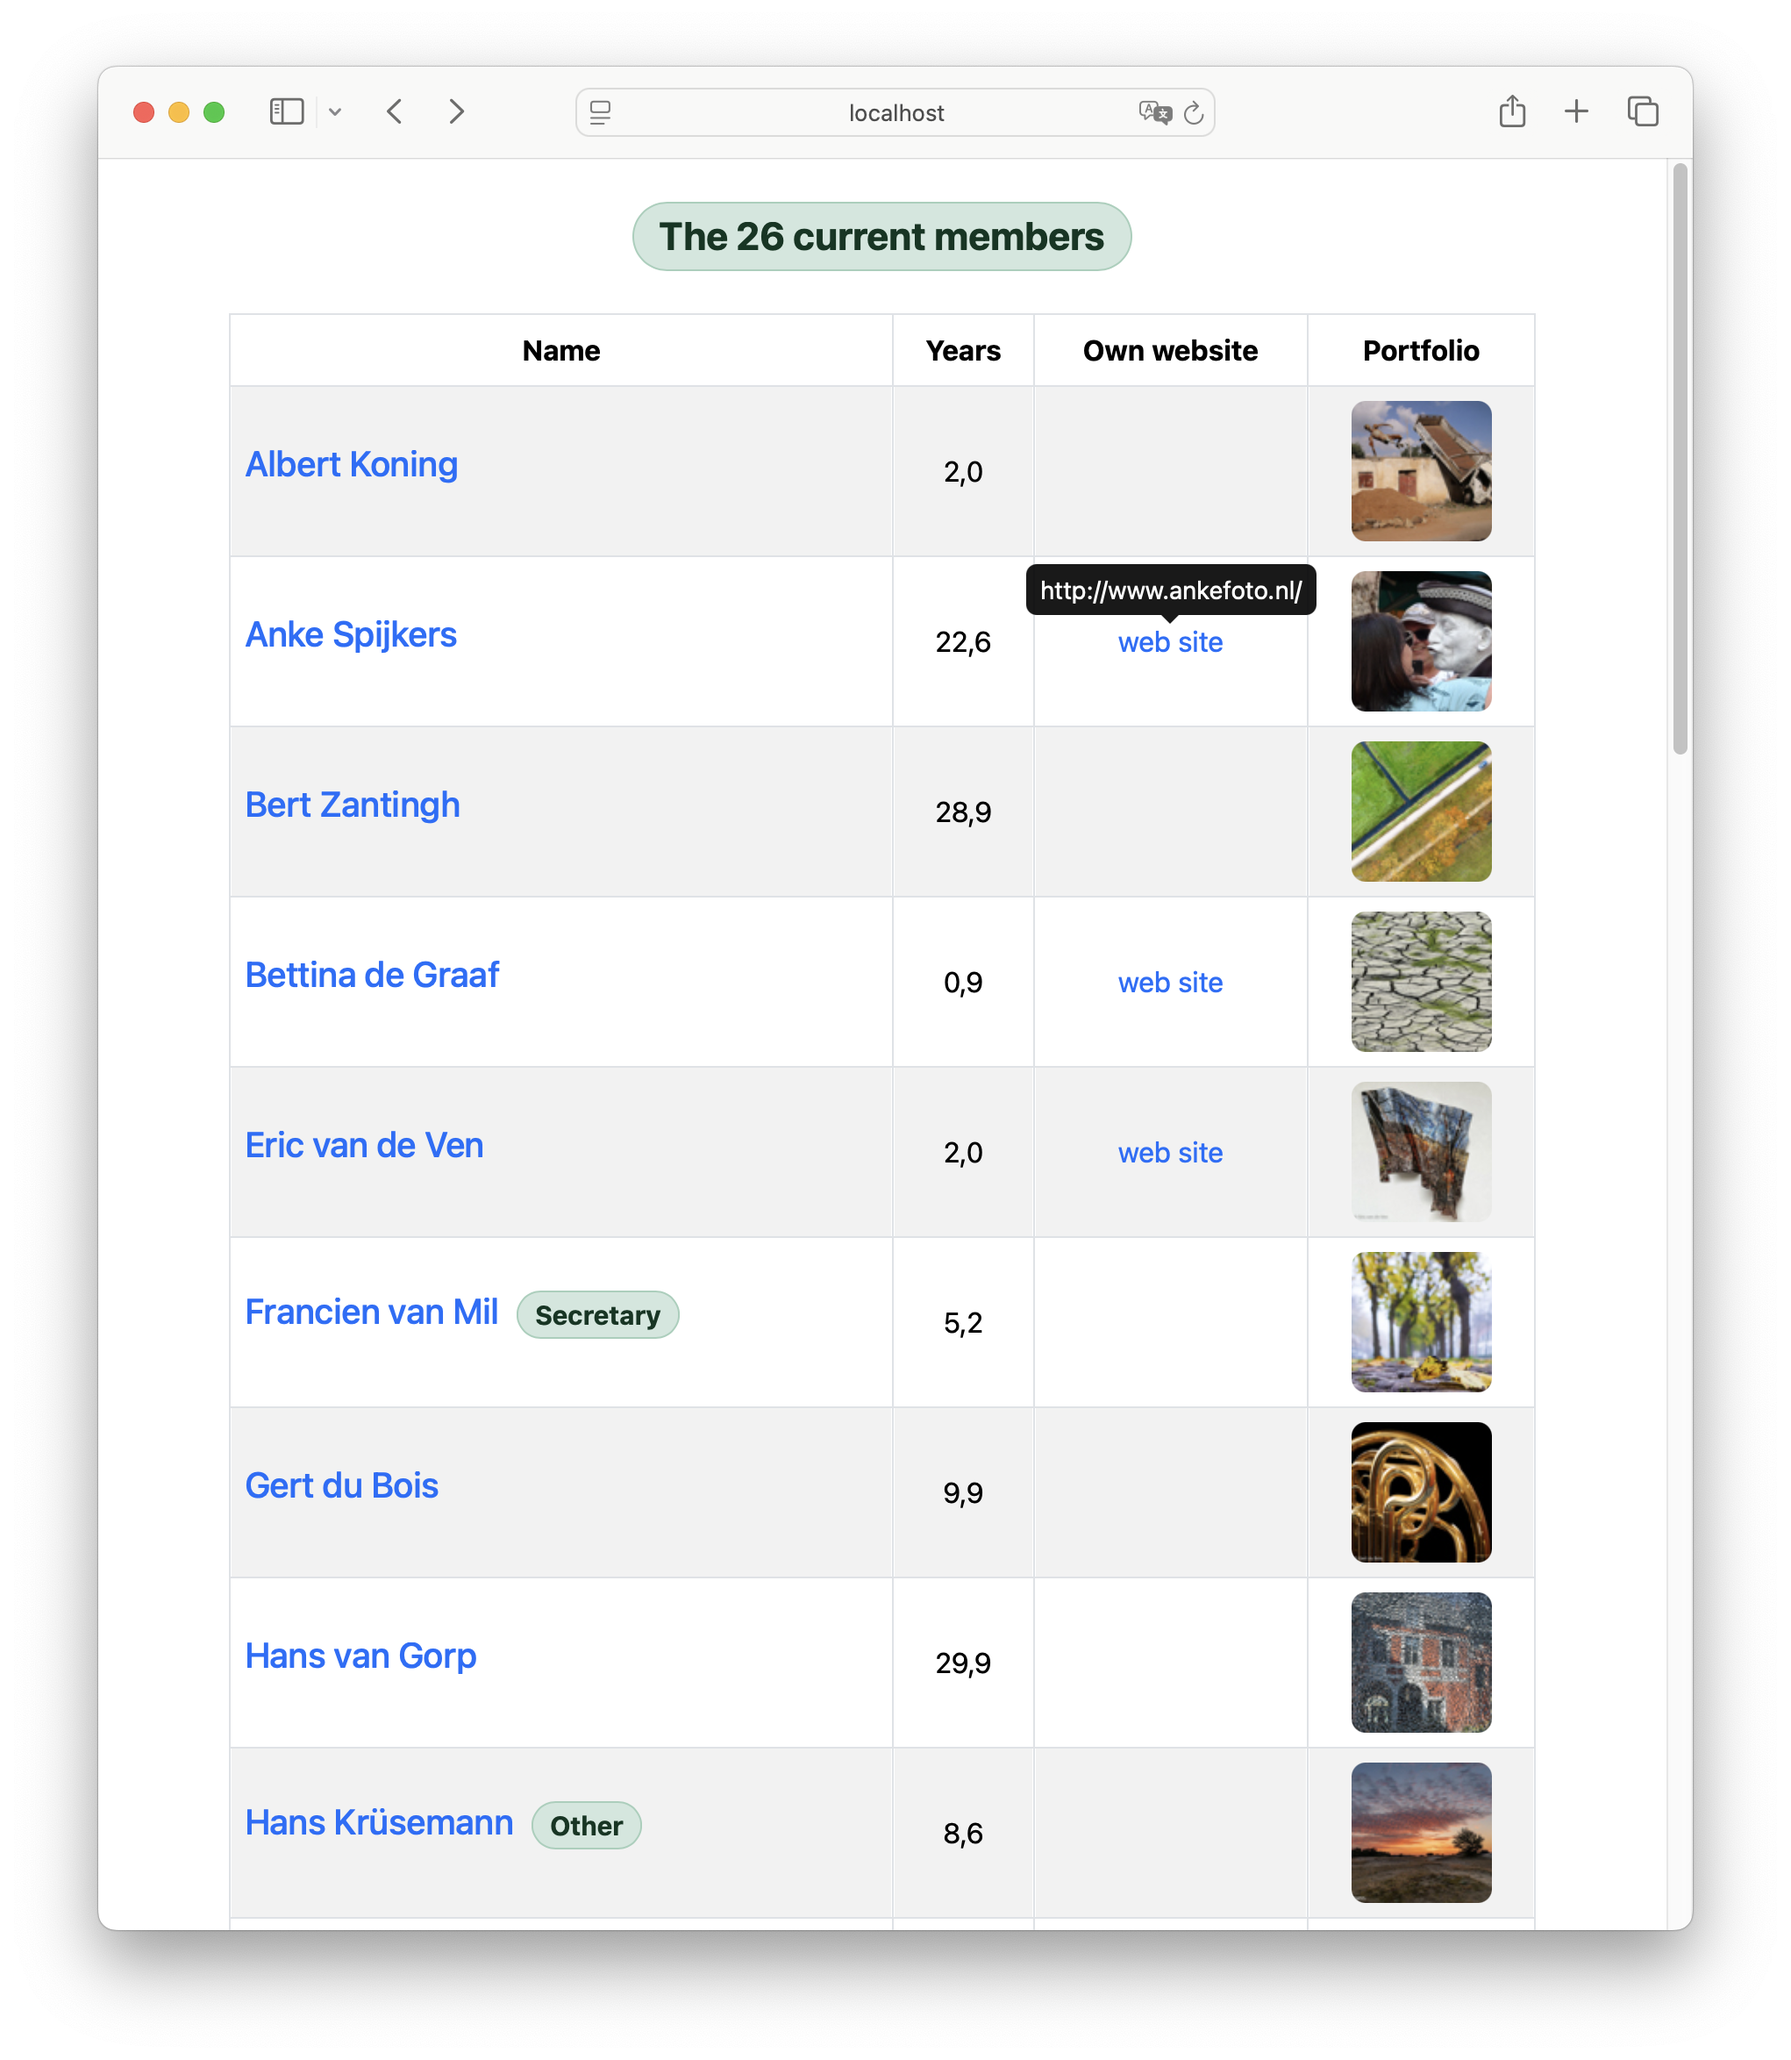
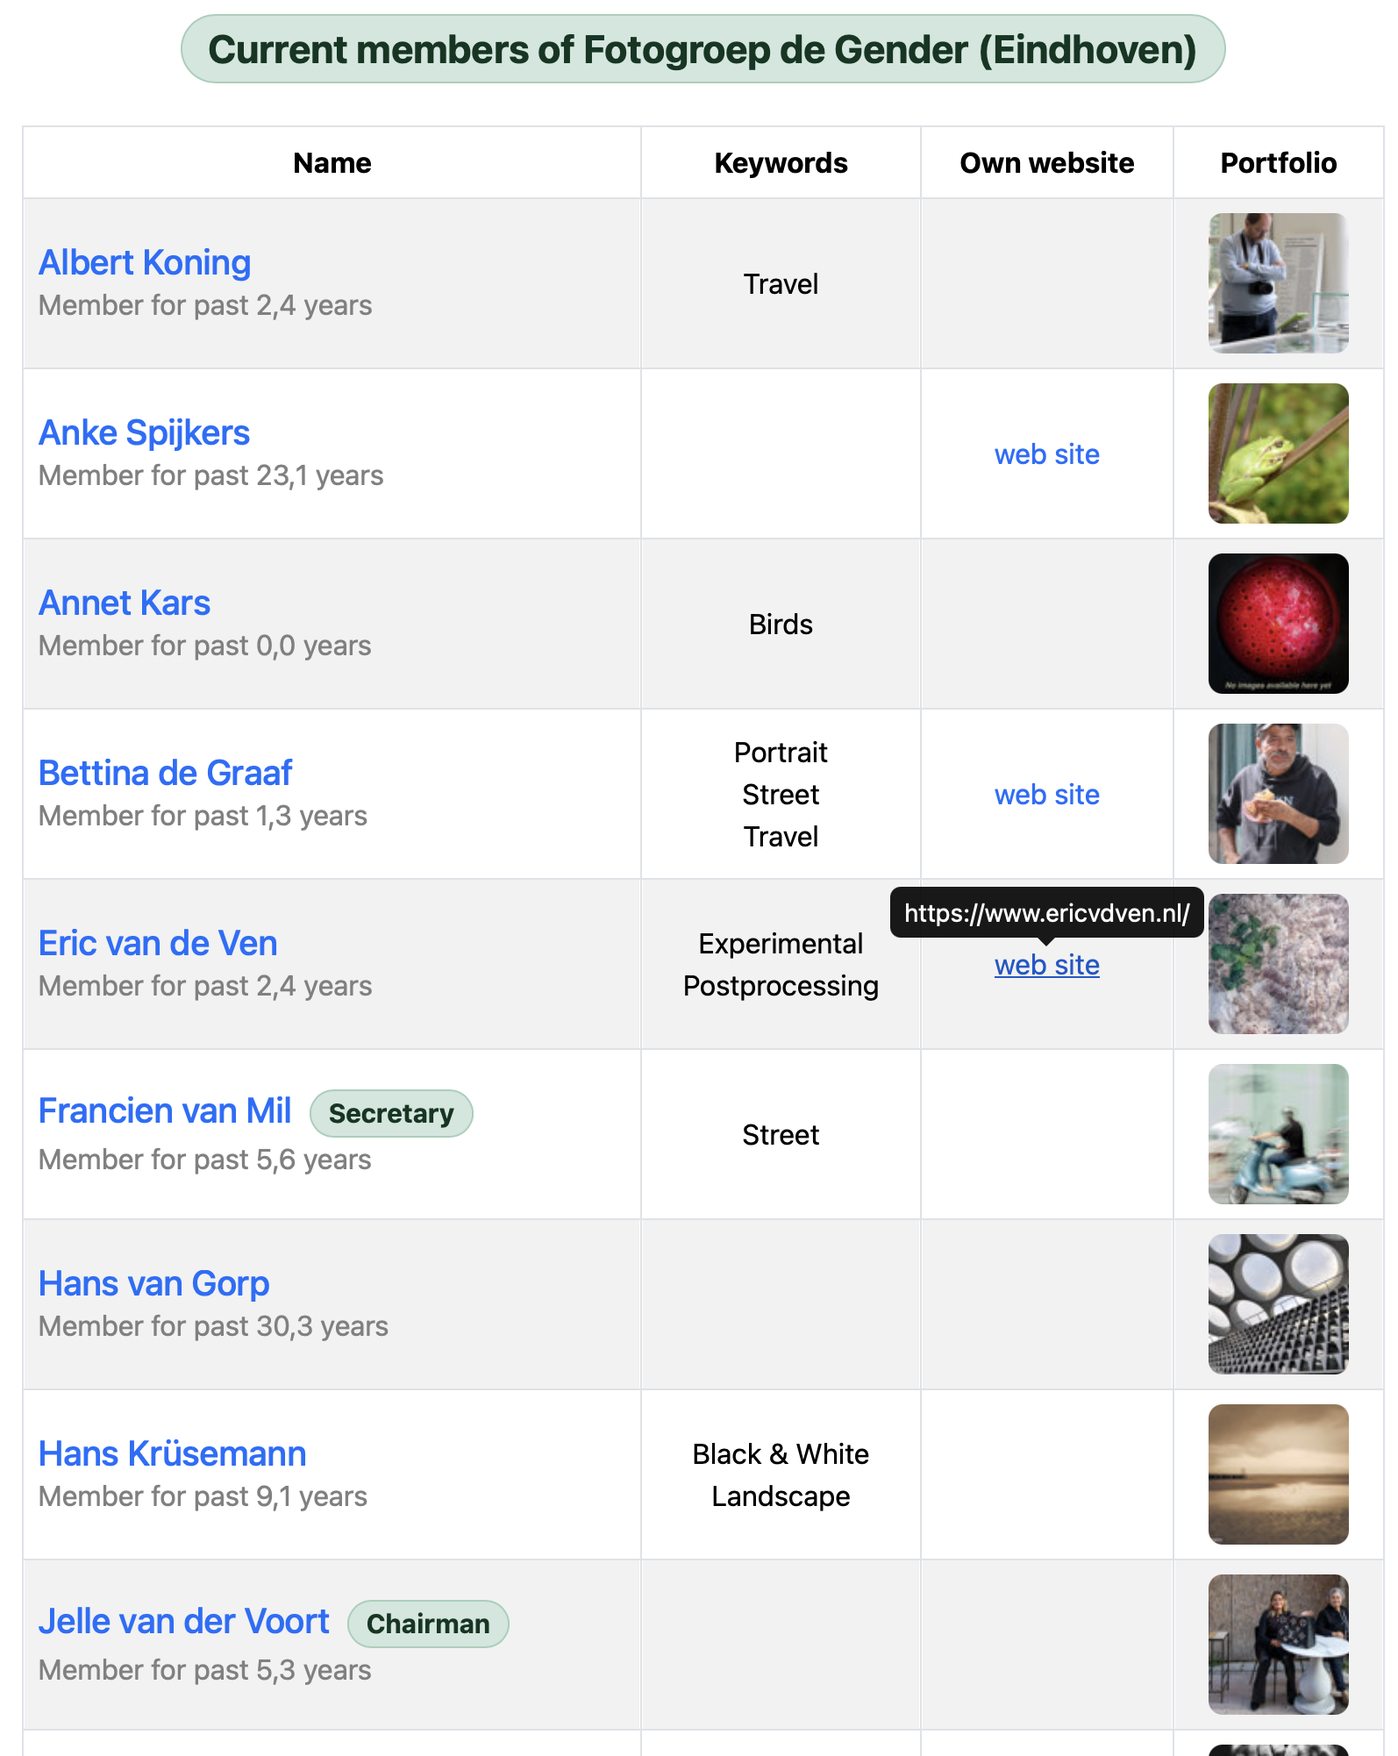
Updated screenshot in GitHub readme

diff --git a/Photo Club Hub HTML/IgniteSource/Site.swift b/Photo Club Hub HTML/IgniteSource/Site.swift
@@ -52,7 +52,7 @@ struct MemberSite: Site {
 
         self.moc = moc
 
-        let chosenClubIX: Int = 1  // roundabout way to avoid warnings about unused properties
+        let chosenClubIX: Int = 0  // roundabout way to avoid warnings about unused properties
         let clubs = [club0, club1, club2]
         let club = clubs[max(min(chosenClubIX, clubs.count - 1), 0)] // clip to array bounds in case index is wrong
 
